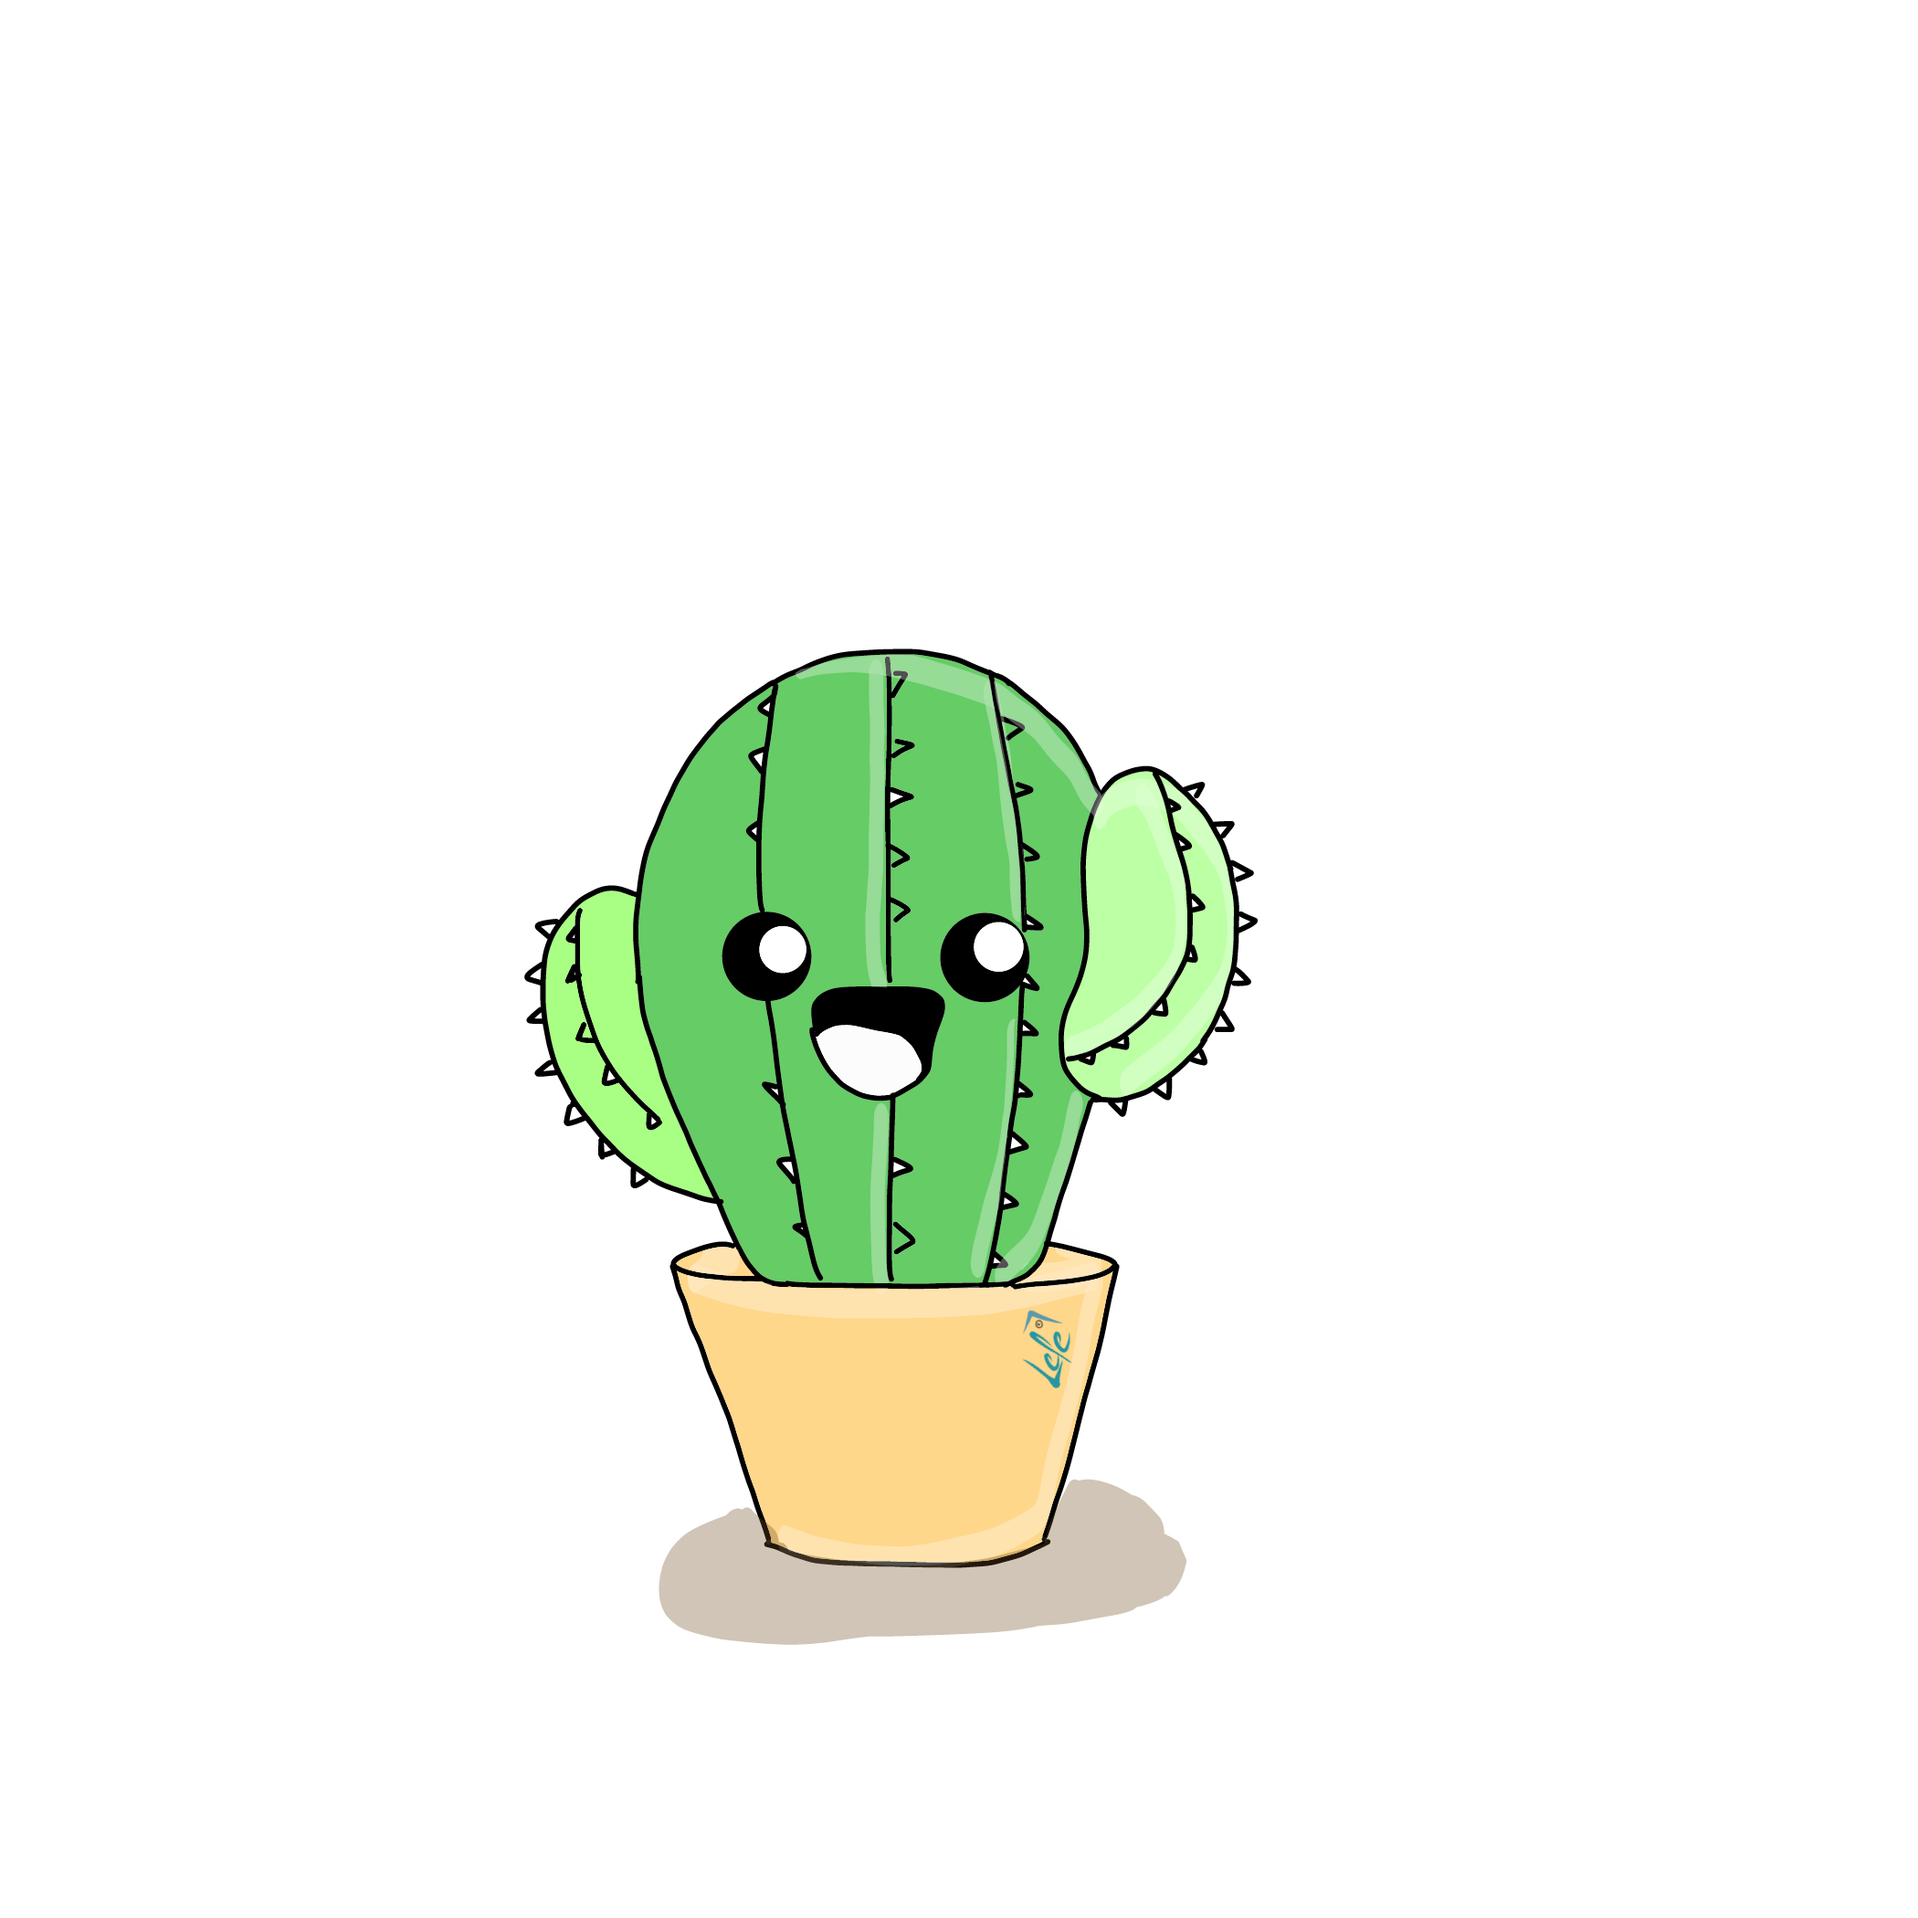
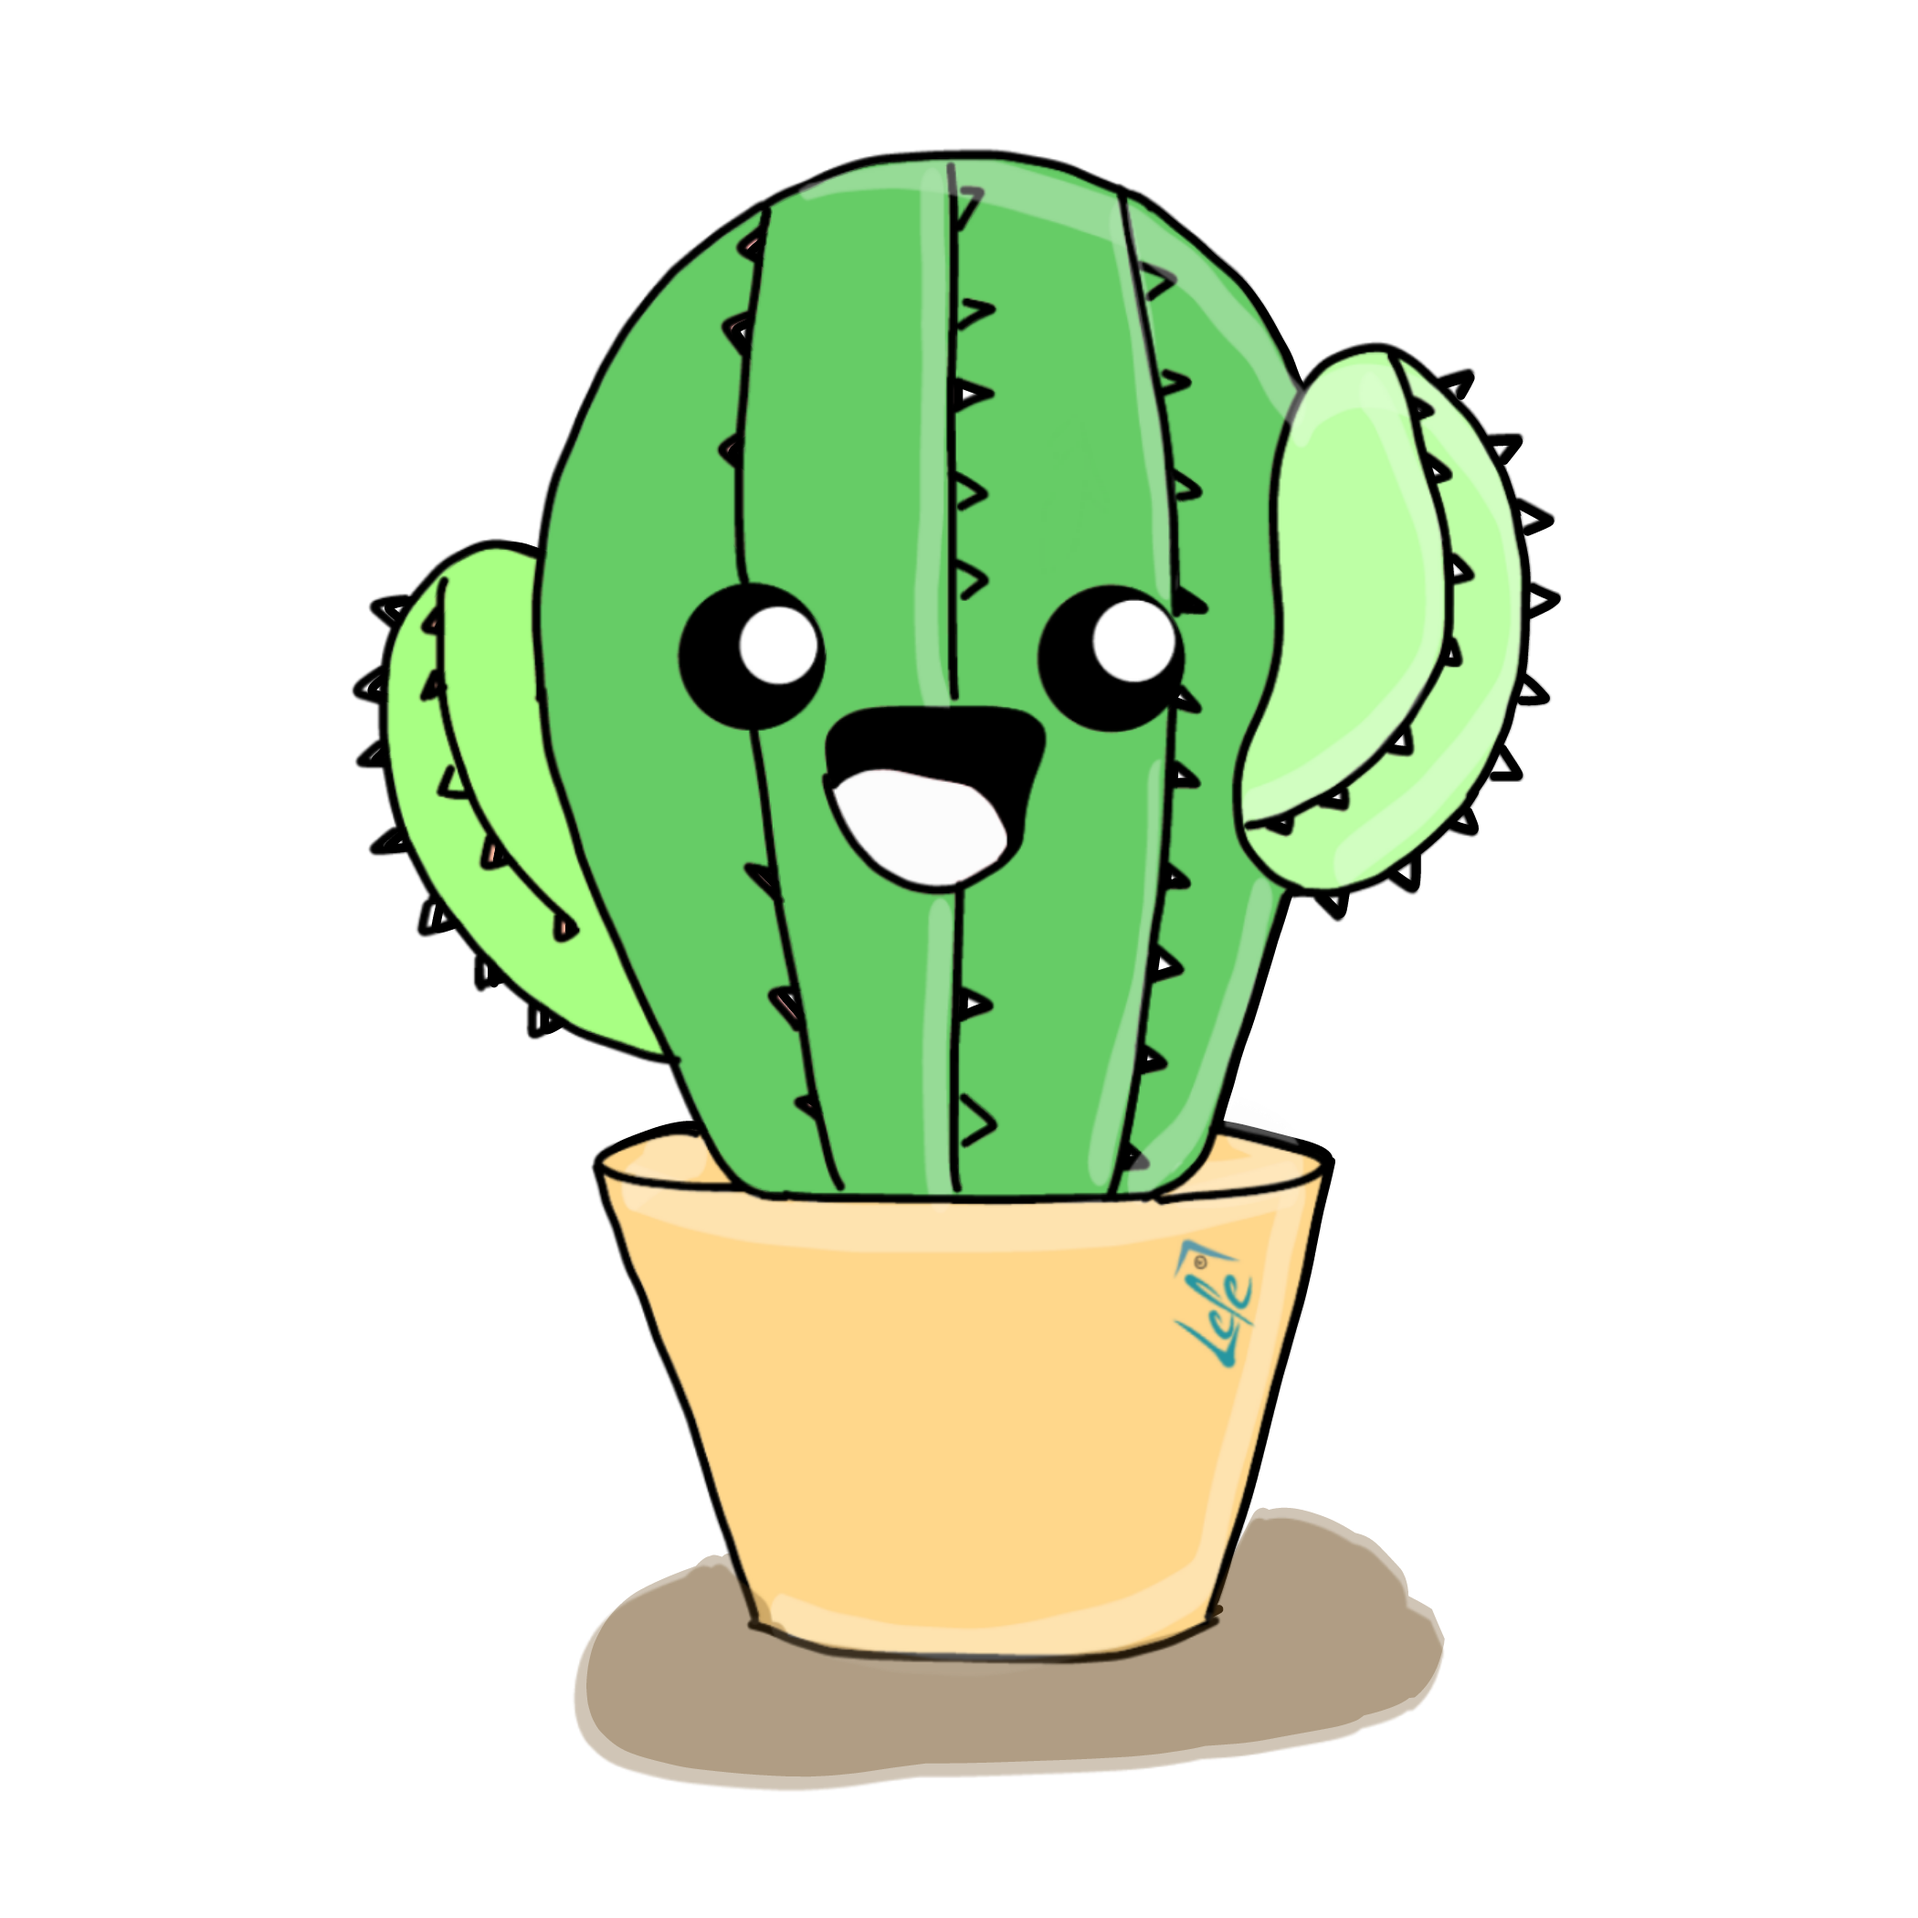
fix cactuspen

Changed region(s): [[0.1857, 0.0619, 0.8048, 0.9595]]

diff --git a/chiSiamo.php b/chiSiamo.php
@@ -14,12 +14,12 @@
         </div>
 
         <div class="profile">
-            <img src="resources/img/cactuspen.png" alt="immagineprofilo">
+            <img src="resources/img/cactuswoman.png" alt="immagineprofilo">
             <label>Elisa Sorri</label>
         </div>
 
         <div class="profile">
-            <img src="resources/img/cactuspen.png" alt="immagineprofilo">
+            <img src="resources/img/cactuswoman.png" alt="immagineprofilo">
             <label>Rachele Veronese</label>
         </div>
 
